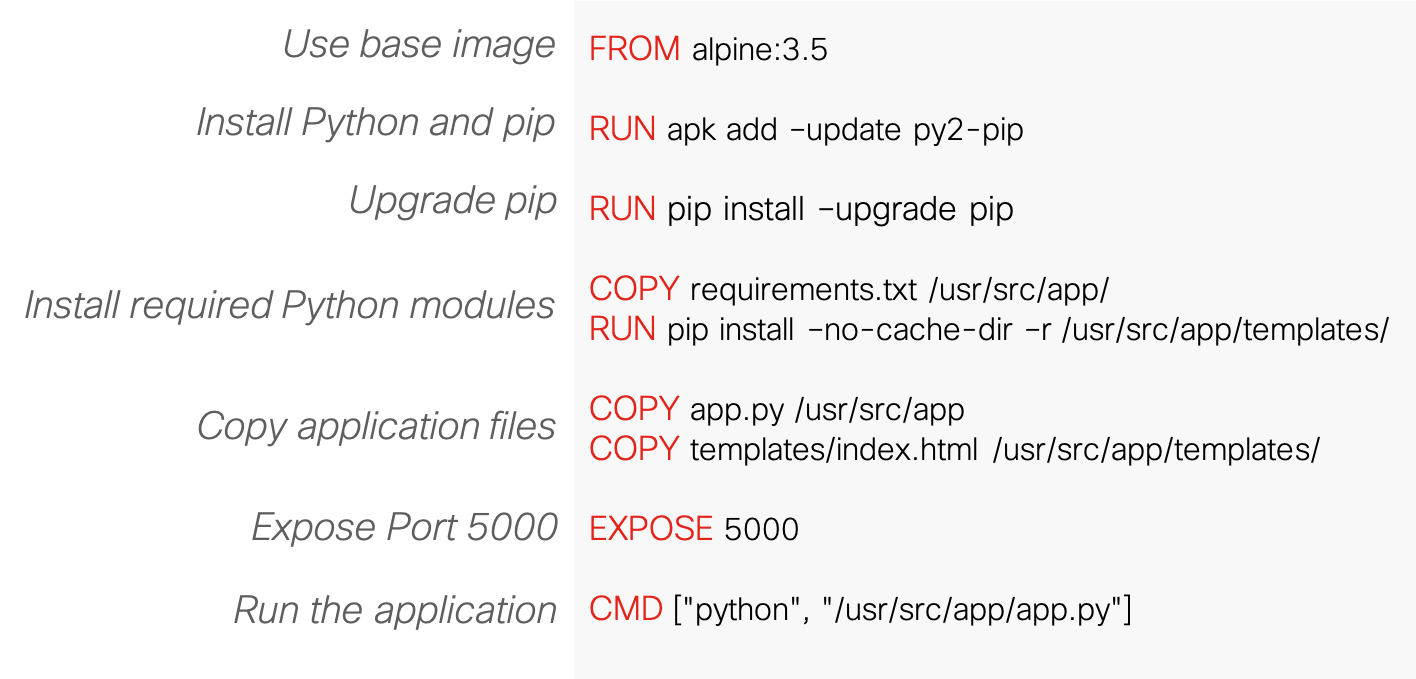
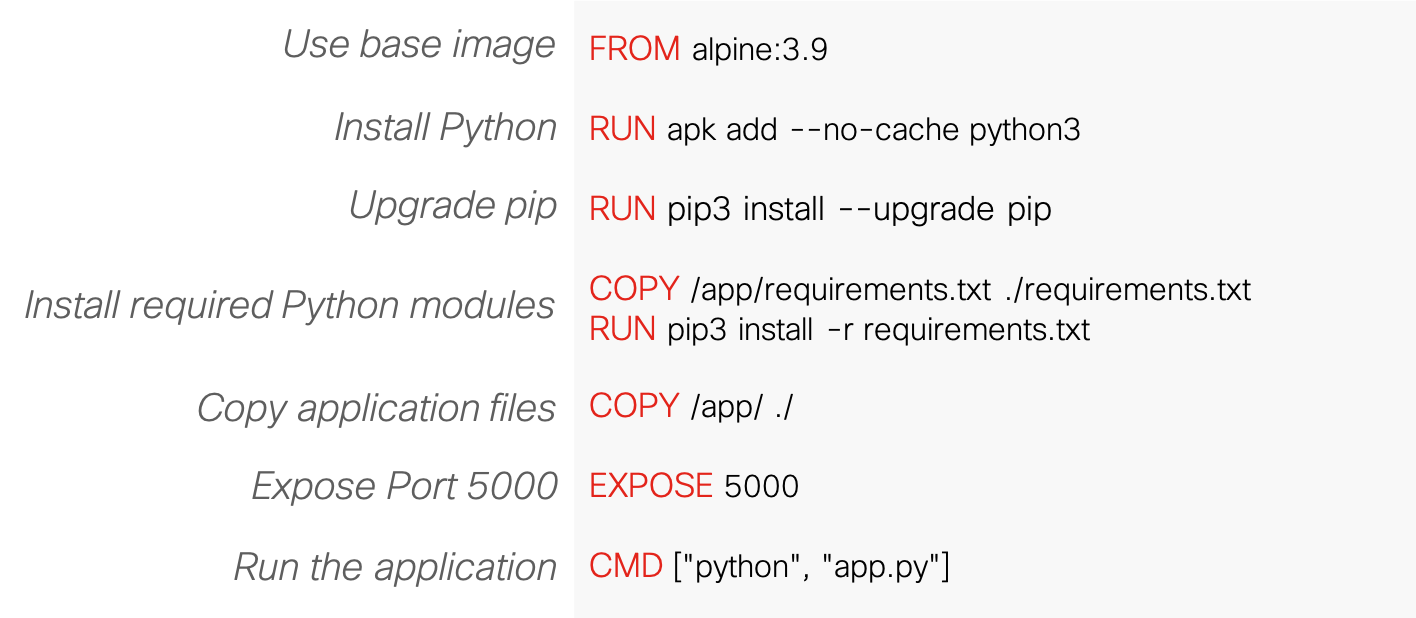
Updated code

diff --git a/1_Intro_to_Containers/code/app/static/index.html b/1_Intro_to_Containers/code/app/static/index.html
@@ -1,0 +1,171 @@
+<!doctype html>
+
+<html lang="en">
+<head>
+    <meta charset="utf-8">
+    <title>Hello Cisco</title>
+    <style>
+        /* 
+        html5doctor.com Reset Stylesheet
+        v1.6.1
+        Last Updated: 2010-09-17
+        Author: Richard Clark - http://richclarkdesign.com 
+        Twitter: @rich_clark
+        */
+
+        html, body, div, span, object, iframe,
+        h1, h2, h3, h4, h5, h6, p, blockquote, pre,
+        abbr, address, cite, code,
+        del, dfn, em, img, ins, kbd, q, samp,
+        small, strong, sub, sup, var,
+        b, i,
+        dl, dt, dd, ol, ul, li,
+        fieldset, form, label, legend,
+        table, caption, tbody, tfoot, thead, tr, th, td,
+        article, aside, canvas, details, figcaption, figure, 
+        footer, header, hgroup, menu, nav, section, summary,
+        time, mark, audio, video {
+            margin:0;
+            padding:0;
+            border:0;
+            outline:0;
+            font-size:100%;
+            vertical-align:baseline;
+            background:transparent;
+        }
+
+        body {
+            line-height:1;
+        }
+
+        article,aside,details,figcaption,figure,
+        footer,header,hgroup,menu,nav,section { 
+            display:block;
+        }
+
+        nav ul {
+            list-style:none;
+        }
+
+        blockquote, q {
+            quotes:none;
+        }
+
+        blockquote:before, blockquote:after,
+        q:before, q:after {
+            content:'';
+            content:none;
+        }
+
+        a {
+            margin:0;
+            padding:0;
+            font-size:100%;
+            vertical-align:baseline;
+            background:transparent;
+        }
+
+        /* change colours to suit your needs */
+        ins {
+            background-color:#FFF;
+            color:#000;
+            text-decoration:none;
+        }
+
+        /* change colours to suit your needs */
+        mark {
+            background-color:#FFF;
+            color:#000; 
+            font-style:italic;
+            font-weight:bold;
+        }
+
+        del {
+            text-decoration: line-through;
+        }
+
+        abbr[title], dfn[title] {
+            border-bottom:1px dotted;
+            cursor:help;
+        }
+
+        table {
+            border-collapse:collapse;
+            border-spacing:0;
+        }
+
+        /* change border colour to suit your needs */
+        hr {
+            display:block;
+            height:1px;
+            border:0;   
+            border-top:1px solid #cccccc;
+            margin:1em 0;
+            padding:0;
+        }
+
+        input, select {
+            vertical-align:middle;
+        }
+
+        /*  ------------------------------------ */
+        
+        body {
+            font-family: Roboto, sans-serif;
+        }
+        
+        #app {
+            margin: 0 auto;
+            margin-top: 40px;
+            background-color: #FFF;
+            width: 600px;
+            border: 1px solid #868686;
+        }
+        
+        #hello {
+            background-color: #00BCEB;
+            color: #FFF;
+            font-size: 25px;
+            text-align: center;
+            padding: 15px;
+        }
+        
+        #imgbar {
+            text-align: center;
+            padding: 25px 0;
+        }
+        
+        #left {
+            padding-right: 50px;
+            padding-left: 25px;
+        }
+        
+        #center {
+        }
+        
+        #right {
+            padding-left: 70px;
+            padding-right: 55px;
+        }
+        
+        #version {
+            font-size: 15px;
+            text-align: center;
+            padding: 10px;
+            background-color: #B0E7FF;
+        }
+    </style>
+</head>
+
+<body>    
+    <div id="app">
+        <div id="hello">Hello Cisco!</div>
+        <div id="imgbar">
+            <img id="left" src="./cisco.png" height="85px" alt="Cisco" />
+            <img id="center" src="./heart.png" height="90px" alt="<3" />
+            <img id="right" src="./k8s.png" height="100px" alt="Kubernetes" />
+        </div>
+        <div id="version">Version: 2</div>
+    </div>
+</body>
+</html>

diff --git a/1_Intro_to_Containers/code/app/app.py b/1_Intro_to_Containers/code/app/app.py
@@ -1,0 +1,13 @@
+from flask import Flask, send_from_directory
+import os
+import socket
+
+app = Flask(__name__)
+
+@app.route("/<path:filename>")
+def serve_static():
+    root_dir = os.path.dirname(os.getcwd())
+    return send_from_directory(os.path.join(root_dir, 'static'), filename)
+
+if __name__ == "__main__":
+    app.run(host='0.0.0.0')
